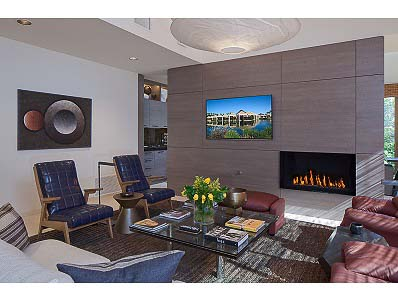
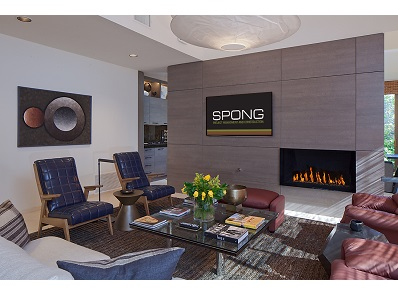
Modify "pic on tv" in Project J

diff --git a/docs/gallery/project-j/index.html b/docs/gallery/project-j/index.html
@@ -39,7 +39,7 @@
 						},
 						"thumbnailAlignment": "center"
 						 }'>
-						<a href="100.jpg" data-ngthumb="100.jpg" data-ngdesc=""></a>
+						<a href="100.png" data-ngthumb="100.png" data-ngdesc=""></a>
 						<a href="102.jpg" data-ngthumb="102.jpg" data-ngdesc=""></a>
 						<a href="104.jpg" data-ngthumb="104.jpg" data-ngdesc=""></a>
 						<a href="106.jpg" data-ngthumb="106.jpg" data-ngdesc=""></a>
@@ -82,7 +82,7 @@
         </div>
       </div>
     </div>
-    <div class="parallax"><img src="/img/projectj/100.JPG" alt="Project H"></div>
+    <div class="parallax"><img src="/img/projectj/100.png" alt="Project H"></div>
   </div>
 	<footer class="page-footer spong-black">
     <div class="container">

diff --git a/docs/index.html b/docs/index.html
@@ -145,7 +145,7 @@
         </div>
       </div>
     </div>
-    <div class="parallax"><img src="/img/projectj/100.jpg" alt="Project J"></div>
+    <div class="parallax"><img src="/img/projectj/100.png" alt="Project J"></div>
   </div>
   
   <div class="container">
